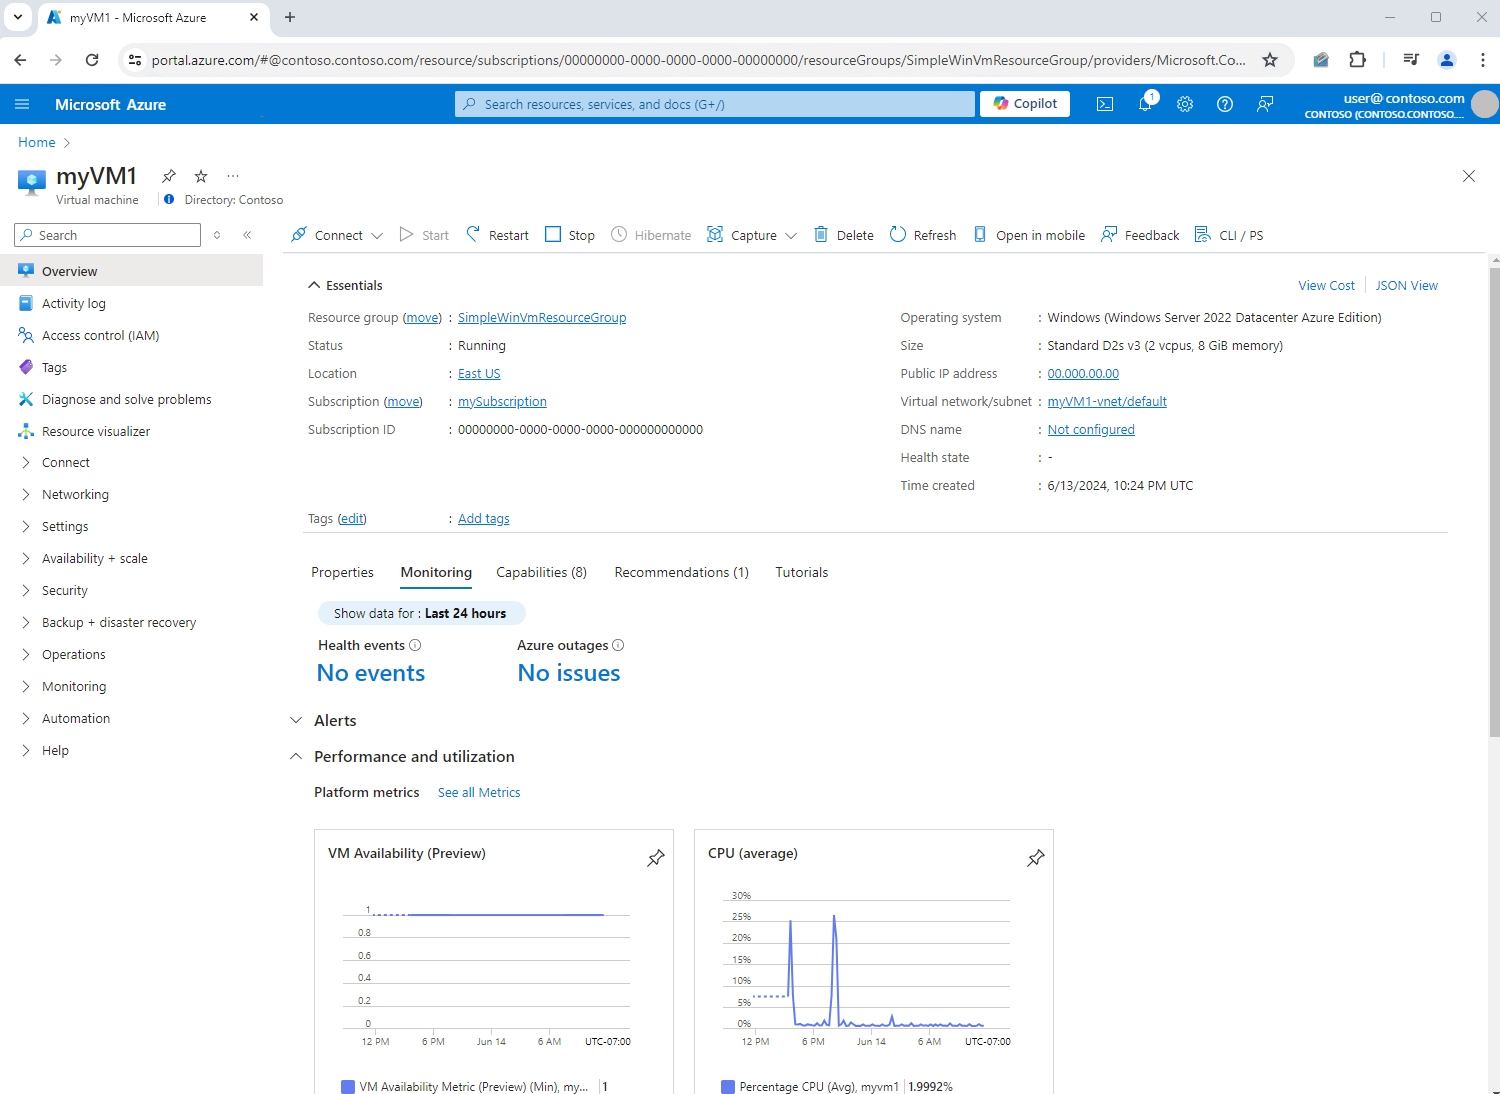
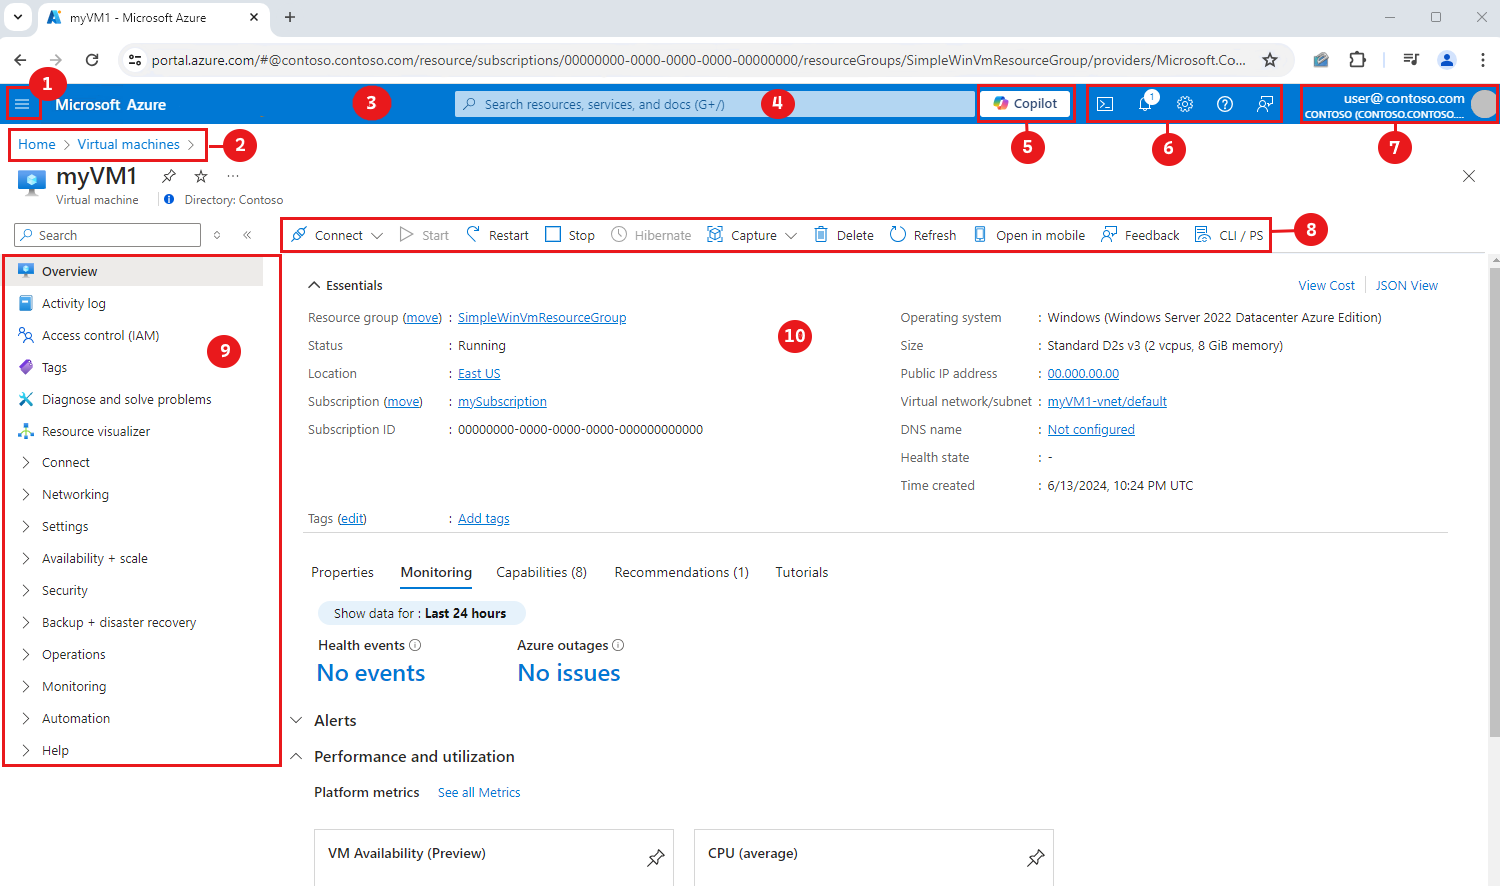
update image and guide

diff --git a/articles/azure-portal/azure-portal-overview.md b/articles/azure-portal/azure-portal-overview.md
@@ -1,7 +1,7 @@
 ---
 title: What is the Azure portal?
 description: The Azure portal is a graphical user interface that you can use to manage your Azure services. Learn how to navigate and find resources in the Azure portal.
-ms.date: 06/14/2024
+ms.date: 06/20/2024
 ms.topic: overview
 ---
 
@@ -29,15 +29,16 @@ The illustration below labels the basic elements of the Azure portal, each of wh
 
 |Key|Description |
 |:---:|---|
-|1|**Page header**. Appears at the top of every portal page and holds global elements.|
-|2|**Global search**. Use the search bar to quickly find a specific resource, a service, or documentation.|
-|3|**Global controls**. Like all global elements, these controls persist across the portal. Global controls include Cloud Shell, Notifications, Settings, Support + Troubleshooting, and Feedback.|
-|4|**Your account**. View information about your account, switch directories, sign out, or sign in with a different account.|
-|5|**Portal menu**. This global element can help you to navigate between services. Sometimes referred to as the sidebar.|
-|6|**Service menu**. Many services include a menu with commands that are contextual to the service or resource that you're working with. You may see also this element referred to as the resource menu, or sometimes as the left pane.|
-|7|**Command bar**. These controls are contextual to your current focus.|
-|8|**Working pane**. Displays details about the resource that is currently in focus.|
-|9|**Breadcrumb**. Use the breadcrumb links to move back a level in your workflow.|
+|1|**Portal menu**. This global element can help you to navigate between services. Sometimes referred to as the sidebar.|
+|2|**Breadcrumb**. Use the breadcrumb links to move back a level in your workflow.|
+|3|**Page header**. Appears at the top of every portal page and holds global elements.|
+|4|**Global search**. Use the search bar in the page header to quickly find a specific resource, a service, or documentation.|
+|5|**Copilot**. Quick access to [Microsoft Copilot in Azure (preview)](/azure/copilot/).|
+|6|**Global controls**. Controls that persist in the page header for common tasks: Cloud Shell, Notifications, Settings, Support + Troubleshooting, and Feedback.|
+|7|**Your account**. View information about your account, switch directories, sign out, or sign in with a different account.|
+|8|**Command bar**. A group of controls that are contextual to your current focus.|
+|9|**Service menu**. A menu with commands that are contextual to the service or resource that you're working with. You may see also this element referred to as the resource menu, or sometimes as the left pane.|
+|10|**Working pane**. Displays details about the resource or service that is currently in focus.|
 
 ## Portal menu
 
